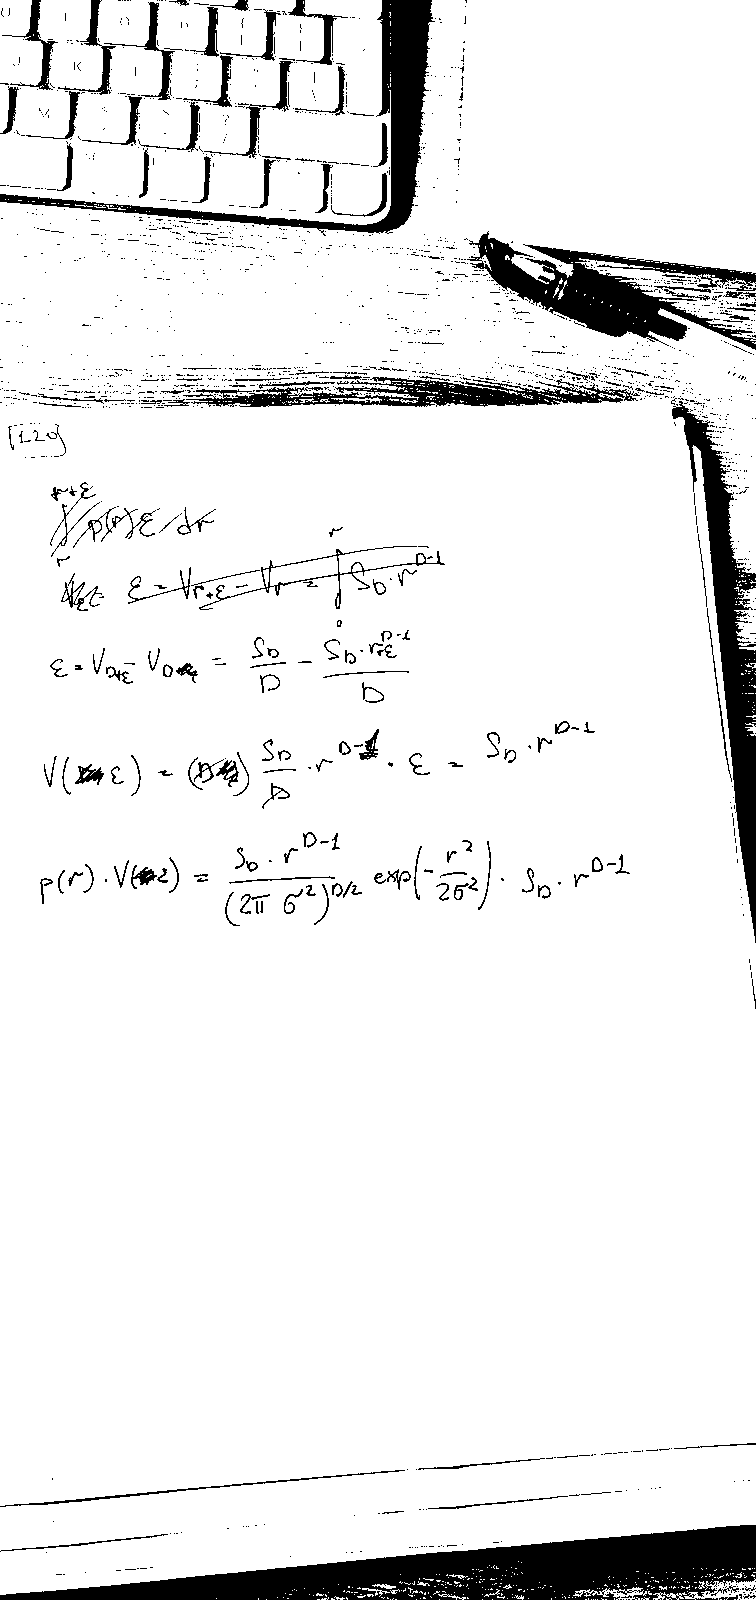
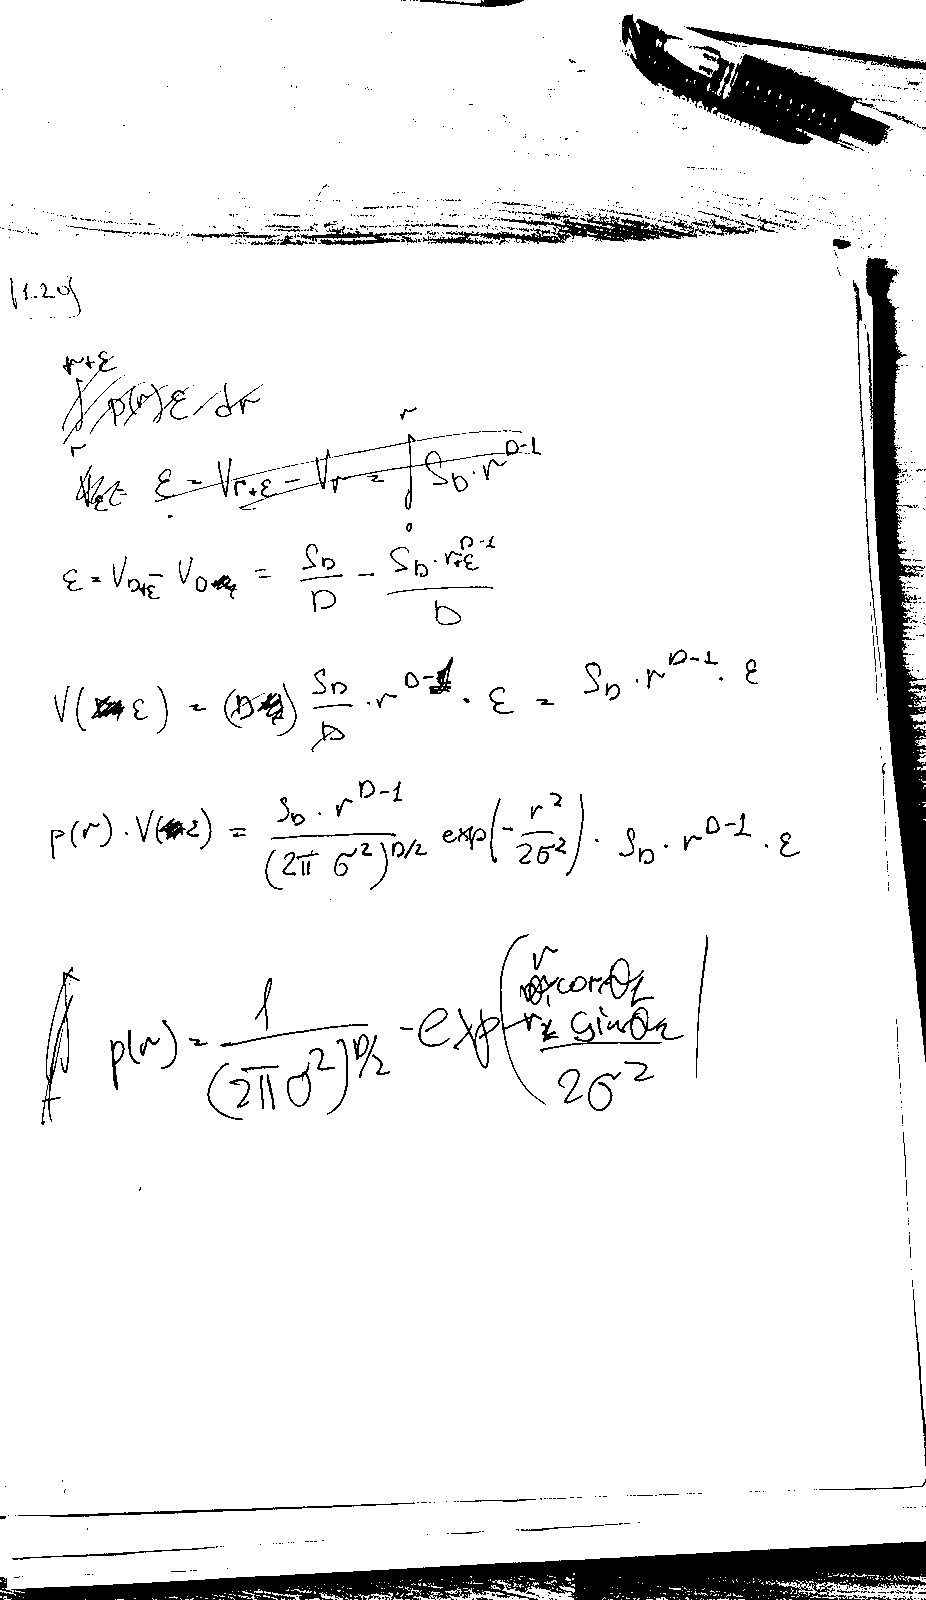
PRML 1.20: part B (peak at sqrt(D) sigma), in progress
Claude-Session: https://claude.ai/code/session_01K8yaEDjstFqRHe6uQcgUFr

diff --git a/book-pattern-recognition-and-machine-learning-bishop/ch01_introduction/exercises.md b/book-pattern-recognition-and-machine-learning-bishop/ch01_introduction/exercises.md
@@ -893,7 +893,9 @@ In practice: uniform samples in a box [−a, a]^D almost never land near the cen
 
 Context: the derivation behind Figure 1.23.
 
-Handwritten original, so far: [`ex-1.20-handwritten-1.png`](ex-1.20-handwritten-1.png).
+Handwritten original, so far: [`ex-1.20-handwritten-1.png`](ex-1.20-handwritten-1.png) (shell volume),
+[`ex-1.20-handwritten-2.png`](ex-1.20-handwritten-2.png) (‖x‖² = r²),
+[`ex-1.20-handwritten-3.png`](ex-1.20-handwritten-3.png) (peak).
 
 ### Part A: p(r) (his work, last line to fix)
 
@@ -908,8 +910,25 @@ Page's last line has p(r)·V instead of p(**x**)·V, so S_D r^(D−1) appears tw
 Densities: p(**x**) per unit volume (no S_D); p(r) per unit radius (= p(**x**) × shell surface);
 p(r)ε = probability. 2D numbers (σ = 1, r = 1, ε = 0.01): 0.0965 × 0.0628 = 0.606 × 0.01 ≈ 0.0061.
 
+### Part B: the peak r̂ (his own)
+
+p'(r) = S_D/(2πσ²)^(D/2) [(D−1) r^(D−2) e^(−r²/2σ²) + r^(D−1) e^(−r²/2σ²)(−r/σ²)]
+= S_D/(2πσ²)^(D/2) · r^(D−2) e^(−r²/2σ²) · [(D−1) − r²/σ²].
+
+r^(D−2) = 0 only at r = 0 (where p = 0); the exponential is never 0. So (D−1) − r²/σ² = 0:
+r̂ = σ√(D−1) ≈ √D σ for large D. ∎ Single stationary point for r > 0.
+
+Slip: after factoring, wrote (1 − r²/σ²): dropped the D−1 (and first r in r^D/r^(D−2) = r²).
+
 ### Next
 
-Restart with a 1D change-of-density example before continuing. Then: peak of
-r^(D−1) e^(−r²/2σ²) (product rule, as 1.9) → r̂ ≈ √D σ; (1.149); ratio exp(D/2).
+- Part C, (1.149): work with ln p(r) = (D−1) ln r − r²/2σ² + const at r = r̂ + ε; needs the
+  Taylor expansion ln(1 + x) ≈ x − x²/2. Learn it from a structured source first.
+- Part D: p(**x**) at 0 vs at r̂: ratio exp(r̂²/2σ²) = exp(D/2).
 
+What part A taught: probability of distance r = density × amount of space at r. Density peaks
+at the centre, space (S_D r^(D−1)) is zero there, so p(r = 0) = 0: the most likely point is not
+the most likely distance.
+
+ML: latent vectors in VAEs/diffusion (D ~ 100–1000) live on the shell ‖z‖ ≈ √D; linear
+interpolation between two latents passes inside the shell, hence slerp.
